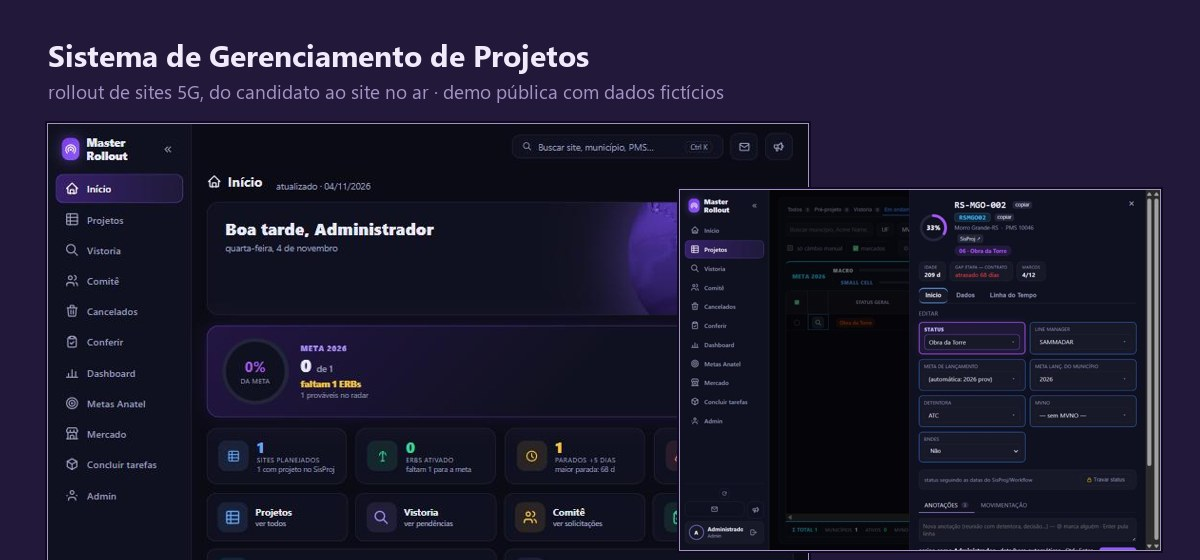
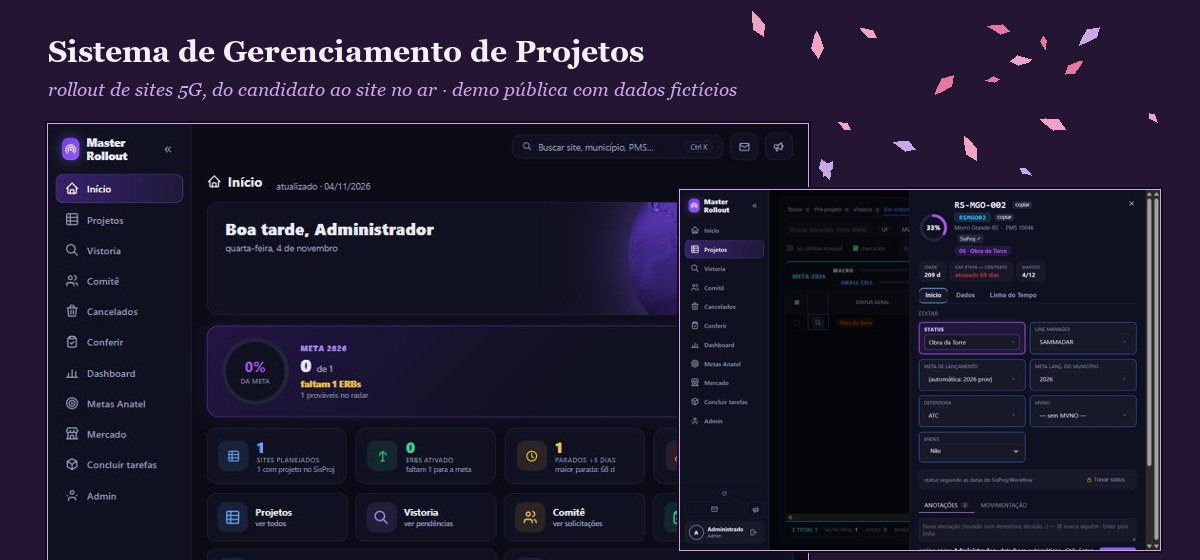
README de perfil: identidade Sakura (roxo e rosa), apresentação geral e Fora do trabalho

diff --git a/README.md b/README.md
@@ -1,8 +1,9 @@
 <img src="assets/banner.svg" alt="Sammadar dos Santos — engenharia de software · sistemas de gestão para telecom" width="100%">
 
-Faço sistemas internos para uma operadora de telecom: a equipe que coloca antenas 5G no ar
-usa um sistema que eu desenvolvi para acompanhar cada site, do candidato ao aceite. Gosto de
-pegar um processo que vive em planilha e transformar em software que a equipe usa todo dia.
+Engenheira de Software. Trabalho em telecom, na área de projetos e processos de rede móvel, e
+cuido das melhorias e automações do setor: transformo processos que vivem em planilha e e-mail
+em sistemas que as equipes usam todo dia. Gosto de dados bem organizados, telas claras e de ver
+uma ideia chegar à produção.
 
 ## Projetos
 
@@ -55,6 +56,10 @@ Menores, de estudo:
 
 Evoluindo o sistema de rollout (metas regulatórias, integrações com os sistemas de projeto da
 empresa) e terminando o CuraSystem.
+
+## Fora do trabalho
+
+Anime, principalmente One Piece: time Luffy, Robin e Zoro. As pétalas do banner são por isso.
 
 ## Contato
 
